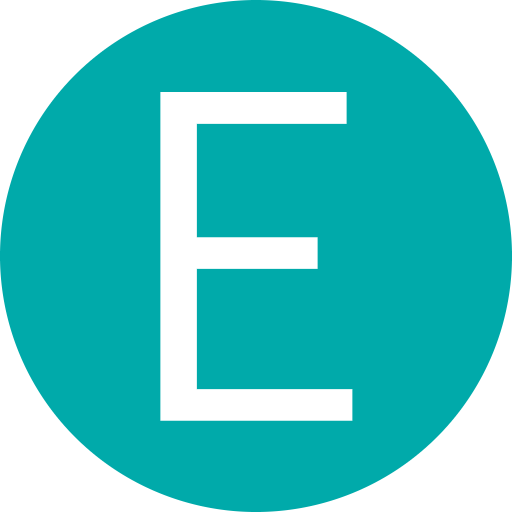
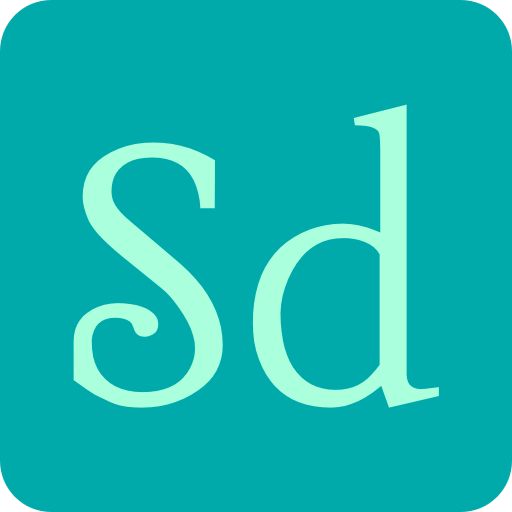
before merge

diff --git a/index.html b/index.html
@@ -11,6 +11,7 @@
         <link rel="icon" type="image/png" sizes="16x16" href="images/favicon-16x16.png">
         <link rel="manifest" href="images/site.webmanifest">        
         <script src="https://cdnjs.cloudflare.com/ajax/libs/jquery/3.5.1/jquery.min.js"></script>
+        <script src="./scripts/app.js"></script>
     </head>
 
     <body class="has-navbar-fixed-top">
@@ -42,13 +43,11 @@
             <div class="hero-body">
               <div class="container">
                     <h1 class="title">
-                    eSportsStats
+                    Select Difficulty
                     </h1>
-                    <div id="newsTicker">
-                        <div class="newsHeadline">pee pee</div>
-                        <div class="newsHeadline">pee pee</div>
-                        <div class="newsHeadline">pee pee</div>
-                    </div>              
+                    <h2>
+                        Your One Stop Shop for professional eSports tournament tracking and statistics.
+                    </h2>
                 </div>
             </div>
         </section>
@@ -57,10 +56,10 @@
             <div class="container">
                 <div class="columns">
                     <div id="bannerDiv" class="column ">
-                        <h1 class="is-size-1" style="color: white;">Current Tournament Information</h1>
+                        <h1 class="is-size-1" style="color: white;">Previous Major Tournaments</h1>
                         <div class="bannerSolo">
                             <h2 class="is-size-3">Dota 2</h2>
-                            <img src="./images/areYouWorking.PNG" alt="matt" width="500">
+                            <a href="https://youtu.be/dQw4w9WgXcQ"><img src="./images/tournamentBanners/dota.PNG" alt="matt" width="25%"></a>
                             <ul>
                                 <li>Tournament Period: 1/1/2020 - 1/14/2020</li>
                                 <li>Last Year's Winner: Dendi</li>
@@ -69,7 +68,7 @@
                         </div>
                         <div class="bannerSolo">
                             <h2 class="is-size-3">League of Legends</h2>
-                            <img src="./images/areYouWorking.PNG" alt="matt" width="500">
+                            <a href="https://youtu.be/dQw4w9WgXcQ"><img src="./images/tournamentBanners/lol.jpg" alt="matt" width="25%"></a>
                             <ul>
                                 <li>Tournament Period: 1/1/2020 - 1/14/2020</li>
                                 <li>Last Year's Winner: Dendi</li>
@@ -78,7 +77,7 @@
                         </div>
                         <div class="bannerSolo">
                             <h2 class="is-size-3">Overwatch</h2>
-                            <img src="./images/areYouWorking.PNG" alt="matt" width="500">
+                            <a href="https://youtu.be/dQw4w9WgXcQ"><img src="./images/tournamentBanners/overwatch.jpg" alt="matt" width="25%"></a>
                             <ul>
                                 <li>Tournament Period: 1/1/2020 - 1/14/2020</li>
                                 <li>Last Year's Winner: Dendi</li>
@@ -114,7 +113,5 @@
                 </div>    
             </div>
         </footer>
-
-        <script src="./scripts/app.js"></script>
     </body>
 </html>

diff --git a/dota2.html b/dota2.html
@@ -3,7 +3,7 @@
     <head>
         <meta charset="utf-8">
         <meta name="viewport" content="width=device-width, initial-scale=1">
-        <title>ESS - Dota 2</title>
+        <title>SD - Dota 2</title>
         <link rel="stylesheet" href="https://cdn.jsdelivr.net/npm/bulma@0.9.0/css/bulma.min.css">
         <link rel="stylesheet" href="styles/styles.css">
         <link rel="apple-touch-icon" sizes="180x180" href="images/apple-touch-icon.png">
@@ -13,6 +13,7 @@
         
         <script src="https://cdnjs.cloudflare.com/ajax/libs/jquery/3.5.1/jquery.min.js"></script>
         <script src="./scripts/youtubeTwitchAPI.js"></script>
+        <script src="./scripts/app.js"></script>
     </head>
 
     <body class="has-navbar-fixed-top">
@@ -40,8 +41,7 @@
             </div>
         </nav>
         
-        <main>
-            
+        <main>            
             <section class="hero is-warning">
                 <div class="hero-body">
                   <div class="container">
@@ -71,9 +71,7 @@
                         </div>
                     </div>
                 </div>
-            </section>
-            
-            
+            </section>  
         </main>
       
         <footer class="footer">
@@ -100,7 +98,5 @@
             </div>
         </footer>
 
-       <script src="./scripts/app.js"></script> 
-       <script src="./scripts/app.js"></script>
     </body>
 </html>

diff --git a/contact.html b/contact.html
@@ -3,13 +3,15 @@
     <head>
         <meta charset="utf-8">
         <meta name="viewport" content="width=device-width, initial-scale=1">
-        <title>ESS - Contact the Team</title>
+        <title>SD - Contact the Team</title>
         <link rel="stylesheet" href="https://cdn.jsdelivr.net/npm/bulma@0.9.0/css/bulma.min.css">
         <link rel="stylesheet" href="styles/styles.css">
         <link rel="apple-touch-icon" sizes="180x180" href="images/apple-touch-icon.png">
         <link rel="icon" type="image/png" sizes="32x32" href="images/favicon-32x32.png">
         <link rel="icon" type="image/png" sizes="16x16" href="images/favicon-16x16.png">
         <link rel="manifest" href="images/site.webmanifest">
+        <script src="https://cdnjs.cloudflare.com/ajax/libs/jquery/3.5.1/jquery.min.js"></script>
+        <script src="./scripts/app.js"></script>
     </head>
 
     <body class="has-navbar-fixed-top">
@@ -84,8 +86,5 @@
                 </div>    
             </div>
         </footer>
-
-        <script src="https://cdnjs.cloudflare.com/ajax/libs/jquery/3.5.1/jquery.min.js"></script>
-        <script src="./scripts/app.js"></script>
     </body>
 </html>

diff --git a/leagueoflegends.html b/leagueoflegends.html
@@ -3,7 +3,7 @@
     <head>
         <meta charset="utf-8">
         <meta name="viewport" content="width=device-width, initial-scale=1">
-        <title>ESS - League of Legends</title>
+        <title>SD - League of Legends</title>
         <link rel="stylesheet" href="https://cdn.jsdelivr.net/npm/bulma@0.9.0/css/bulma.min.css">
         <link rel="stylesheet" href="styles/styles.css">
         <link rel="apple-touch-icon" sizes="180x180" href="images/apple-touch-icon.png">
@@ -13,6 +13,7 @@
         
         <script src="https://cdnjs.cloudflare.com/ajax/libs/jquery/3.5.1/jquery.min.js"></script>
         <script src="./scripts/youtubeTwitchAPI.js"></script>
+        <script src="./scripts/app.js"></script>
     </head>
 
     <body class="has-navbar-fixed-top">
@@ -94,7 +95,5 @@
                 </div>    
             </div>
         </footer>
-
-        <script src="./scripts/app.js"></script>
     </body>
 </html>

diff --git a/overwatch.html b/overwatch.html
@@ -3,7 +3,7 @@
     <head>
         <meta charset="utf-8">
         <meta name="viewport" content="width=device-width, initial-scale=1">
-        <title>ESS - Overwatch</title>
+        <title>SD - Overwatch</title>
         <link rel="stylesheet" href="https://cdn.jsdelivr.net/npm/bulma@0.9.0/css/bulma.min.css">
         <link rel="stylesheet" href="styles/styles.css">
         <link rel="apple-touch-icon" sizes="180x180" href="images/apple-touch-icon.png">
@@ -13,6 +13,7 @@
         
         <script src="https://cdnjs.cloudflare.com/ajax/libs/jquery/3.5.1/jquery.min.js"></script>
         <script src="./scripts/youtubeTwitchAPI.js"></script>
+        <script src="./scripts/app.js"></script>
     </head>
 
     <body class="has-navbar-fixed-top">
@@ -95,7 +96,5 @@
                 </div>    
             </div>
         </footer>
-
-        <script src="./scripts/app.js"></script>
     </body>
 </html>
